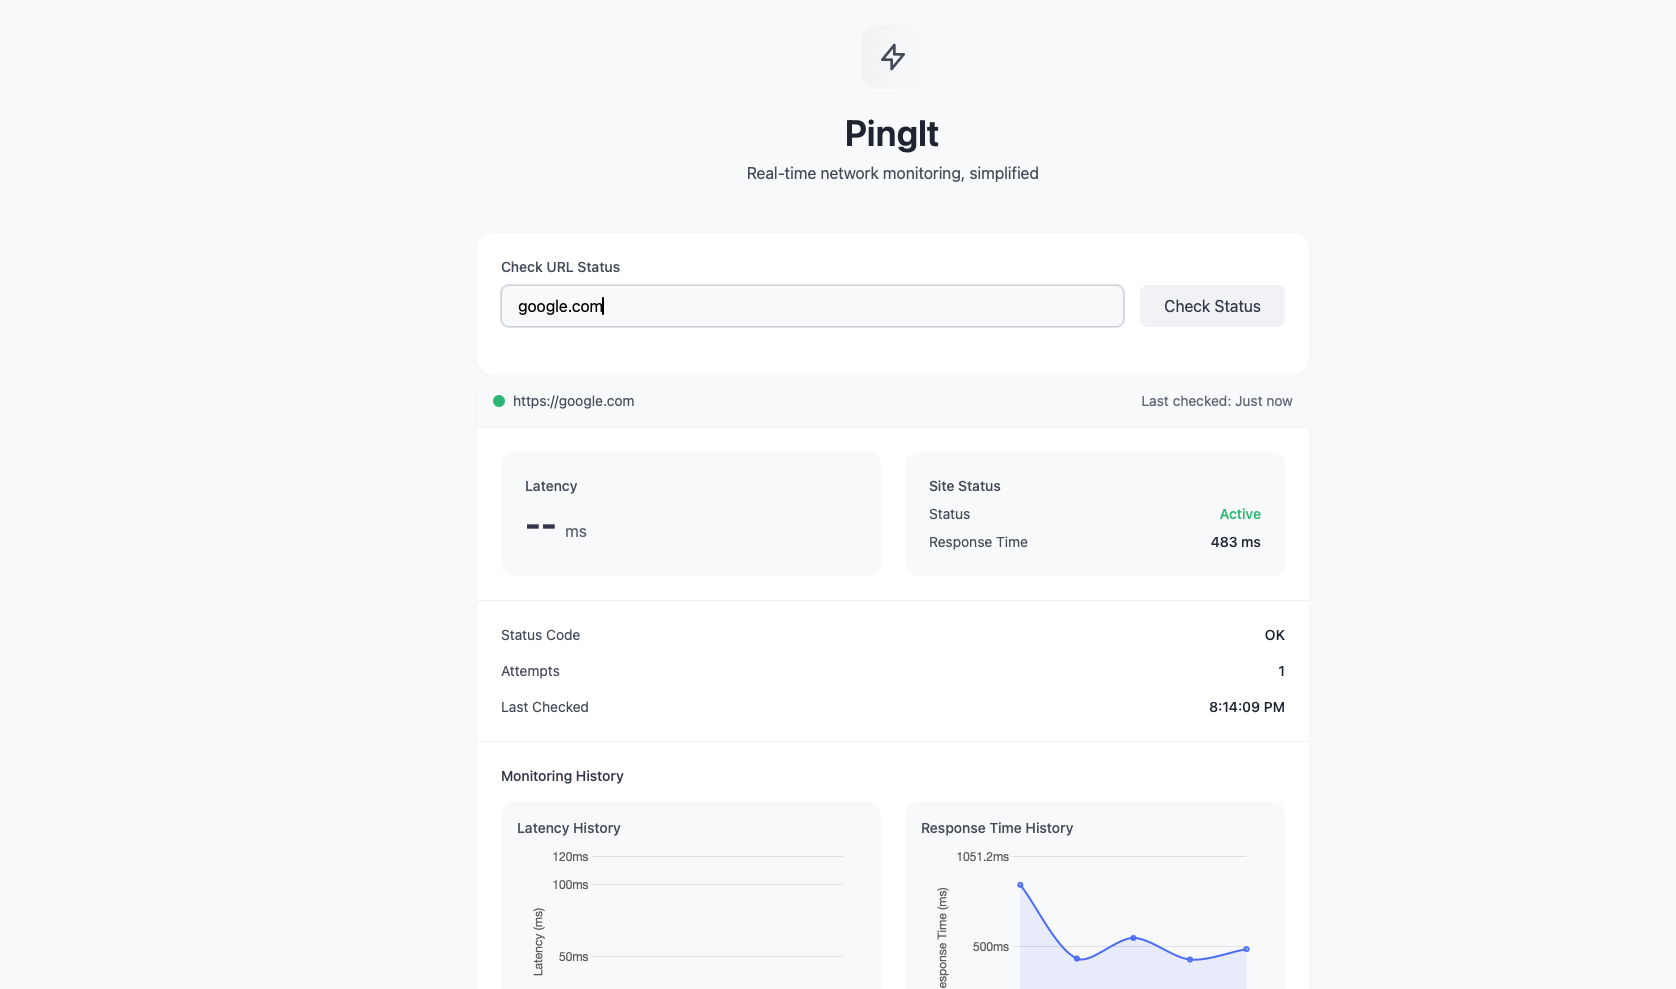
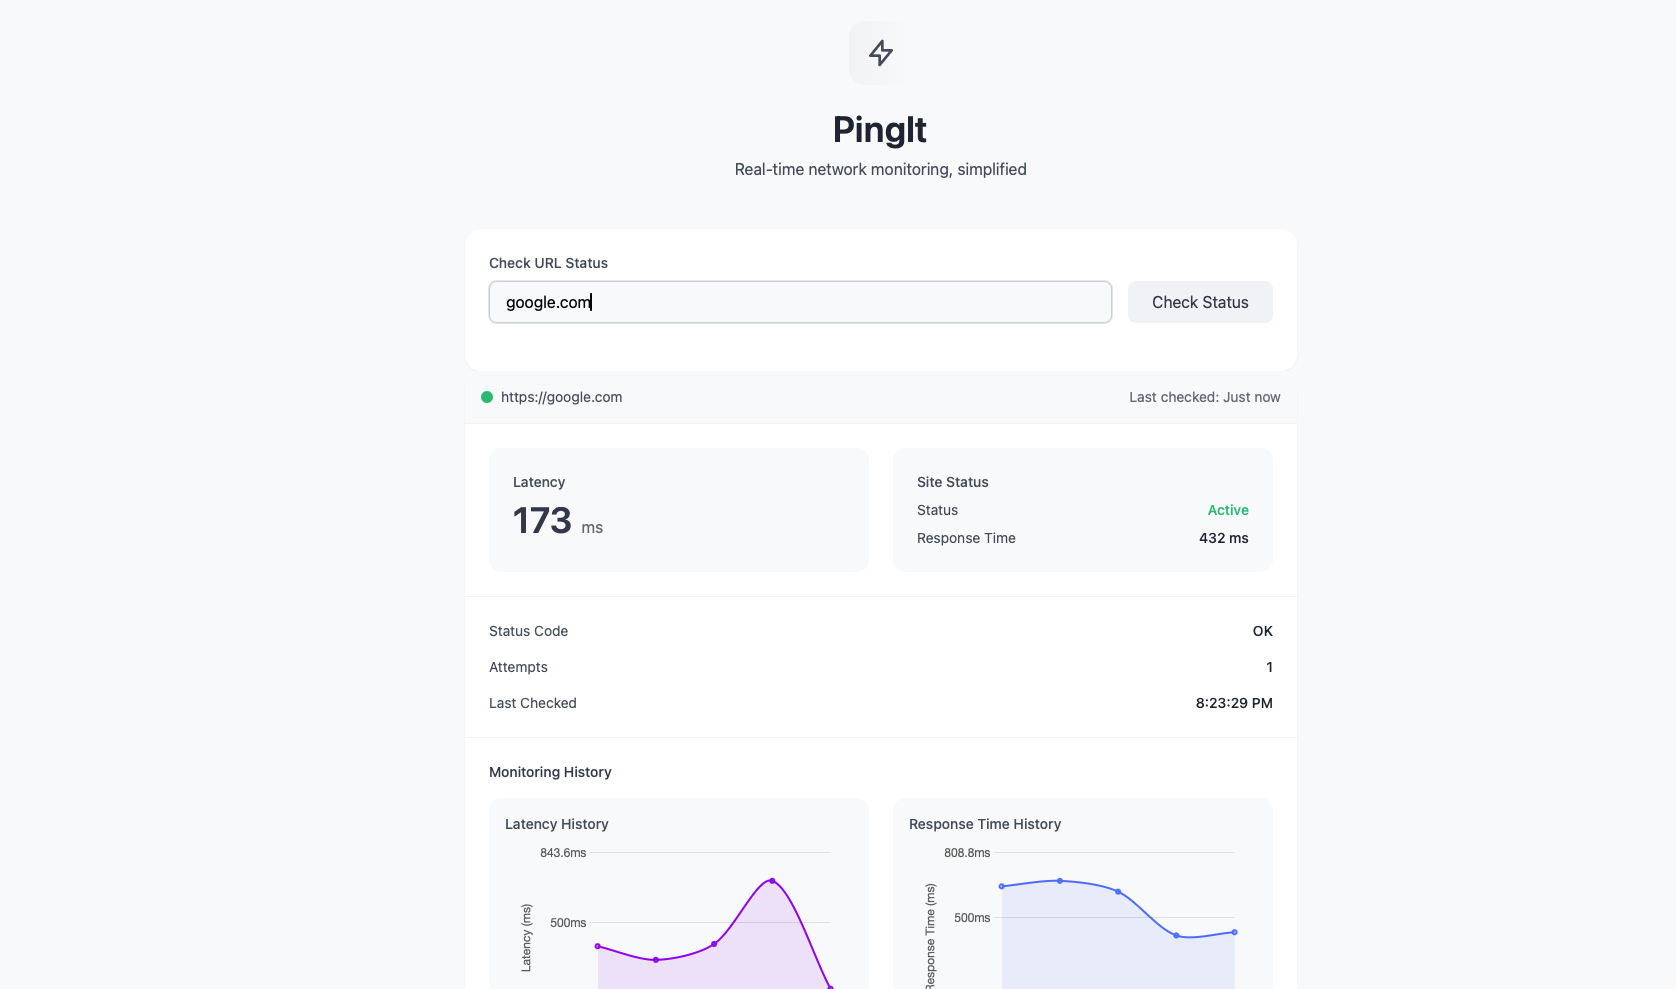
first initial

diff --git a/index.html b/index.html
@@ -14,11 +14,23 @@
     <div class="max-w-4xl mx-auto p-8">
       <!-- Header -->
       <div class="text-center mb-12">
-        <div class="bg-gradient-to-r from-gray-100 to-gray-50 w-16 h-16 rounded-2xl mx-auto mb-6 flex items-center justify-center">
-            <svg class="w-8 h-8 text-gray-600" fill="none" stroke="currentColor" viewBox="0 0 24 24">
-              <path stroke-linecap="round" stroke-linejoin="round" stroke-width="2" d="M13 10V3L4 14h7v7l9-11h-7z" />
-            </svg>
-          </div>
+        <div
+          class="bg-gradient-to-r from-gray-100 to-gray-50 w-16 h-16 rounded-2xl mx-auto mb-6 flex items-center justify-center"
+        >
+          <svg
+            class="w-8 h-8 text-gray-600"
+            fill="none"
+            stroke="currentColor"
+            viewBox="0 0 24 24"
+          >
+            <path
+              stroke-linecap="round"
+              stroke-linejoin="round"
+              stroke-width="2"
+              d="M13 10V3L4 14h7v7l9-11h-7z"
+            />
+          </svg>
+        </div>
         <h1 class="text-4xl font-semibold text-gray-800 mb-2">PingIt</h1>
         <p class="text-gray-600">Real-time network monitoring, simplified</p>
       </div>
@@ -27,7 +39,9 @@
       <div class="bg-white rounded-2xl shadow-sm overflow-hidden">
         <div class="p-6">
           <div class="mb-6">
-            <label class="block text-sm font-medium text-gray-600 mb-2">Check URL Status</label>
+            <label class="block text-sm font-medium text-gray-600 mb-2"
+              >Check URL Status</label
+            >
             <div class="flex space-x-4">
               <input
                 type="url"
@@ -35,7 +49,10 @@
                 placeholder="https://example.com"
                 class="flex-1 rounded-lg border border-gray-200 px-4 py-2 focus:ring-1 focus:ring-gray-200 focus:border-gray-300 outline-none bg-gray-50"
               />
-              <button onclick="checkURL()" class="bg-gray-100 text-gray-700 px-6 py-2 rounded-lg hover:bg-gray-200 transition-colors">
+              <button
+                onclick="checkURL()"
+                class="bg-gray-100 text-gray-700 px-6 py-2 rounded-lg hover:bg-gray-200 transition-colors"
+              >
                 Check Status
               </button>
             </div>
@@ -44,8 +61,13 @@
       </div>
 
       <!-- Results Card -->
-      <div id="resultsCard" class="bg-white rounded-2xl shadow-sm overflow-hidden hidden">
-        <div class="bg-gray-50 border-b border-gray-100 p-4 flex justify-between items-center">
+      <div
+        id="resultsCard"
+        class="bg-white rounded-2xl shadow-sm overflow-hidden hidden"
+      >
+        <div
+          class="bg-gray-50 border-b border-gray-100 p-4 flex justify-between items-center"
+        >
           <div class="flex items-center space-x-2">
             <div id="statusDot" class="w-3 h-3 rounded-full bg-gray-300"></div>
             <span id="checkedUrl" class="text-sm text-gray-600"
@@ -59,23 +81,27 @@
 
         <!-- Metrics -->
         <div class="grid grid-cols-1 md:grid-cols-2 gap-6 p-6">
-            <!-- Latency -->
-            <div class="bg-gray-50 rounded-xl p-6">
-              <h3 class="text-sm font-medium text-gray-600 mb-2">Latency</h3>
-              <div class="flex items-baseline">
-                <span id="latencyValue" class="text-4xl font-semibold text-gray-700">--</span>
-                <span class="ml-2 text-gray-500">ms</span>
-              </div>
-            </div>
-        
-            <!-- Status -->
-            <div class="bg-gray-50 rounded-xl p-6">
-              <h3 class="text-sm font-medium text-gray-600 mb-2">Site Status</h3>
-              <div id="siteStatusDetails" class="space-y-2">
-                <!-- Status details updated via JavaScript -->
-              </div>
+          <!-- Latency -->
+          <div class="bg-gray-50 rounded-xl p-6">
+            <h3 class="text-sm font-medium text-gray-600 mb-2">Latency</h3>
+            <div class="flex items-baseline">
+              <span
+                id="latencyValue"
+                class="text-4xl font-semibold text-gray-700"
+                >--</span
+              >
+              <span class="ml-2 text-gray-500">ms</span>
             </div>
           </div>
+
+          <!-- Status -->
+          <div class="bg-gray-50 rounded-xl p-6">
+            <h3 class="text-sm font-medium text-gray-600 mb-2">Site Status</h3>
+            <div id="siteStatusDetails" class="space-y-2">
+              <!-- Status details updated via JavaScript -->
+            </div>
+          </div>
+        </div>
 
         <!-- Additional Details -->
         <div class="border-t border-gray-100 p-6">
@@ -93,28 +119,58 @@
           <!-- History Charts -->
           <div class="grid grid-cols-1 md:grid-cols-2 gap-6 mb-6">
             <div class="bg-gray-50 rounded-xl p-4 h-[300px]">
-              <h4 class="text-sm font-medium text-gray-600 mb-2">Latency History</h4>
+              <h4 class="text-sm font-medium text-gray-600 mb-2">
+                Latency History
+              </h4>
               <canvas id="latencyChart"></canvas>
             </div>
             <div class="bg-gray-50 rounded-xl p-4 h-[300px]">
-              <h4 class="text-sm font-medium text-gray-600 mb-2">Response Time History</h4>
+              <h4 class="text-sm font-medium text-gray-600 mb-2">
+                Response Time History
+              </h4>
               <canvas id="responseChart"></canvas>
             </div>
           </div>
 
           <!-- History Table -->
           <div class="mt-6">
-            <h4 class="text-sm font-medium text-gray-600 mb-3">Recent Checks</h4>
+            <h4 class="text-sm font-medium text-gray-600 mb-3">
+              Recent Checks
+            </h4>
             <div class="overflow-x-auto">
               <table class="min-w-full">
                 <thead>
                   <tr class="bg-gray-50">
-                    <th class="px-4 py-2 text-left text-xs font-medium text-gray-500">Time</th>
-                    <th class="px-4 py-2 text-left text-xs font-medium text-gray-500">Status</th>
-                    <th class="px-4 py-2 text-left text-xs font-medium text-gray-500">Latency</th>
-                    <th class="px-4 py-2 text-left text-xs font-medium text-gray-500">Response Time</th>
-                    <th class="px-4 py-2 text-left text-xs font-medium text-gray-500">Code</th>
-                    <th class="px-4 py-2 text-left text-xs font-medium text-gray-500">Error</th>
+                    <th
+                      class="px-4 py-2 text-left text-xs font-medium text-gray-500"
+                    >
+                      Time
+                    </th>
+                    <th
+                      class="px-4 py-2 text-left text-xs font-medium text-gray-500"
+                    >
+                      Status
+                    </th>
+                    <th
+                      class="px-4 py-2 text-left text-xs font-medium text-gray-500"
+                    >
+                      Latency
+                    </th>
+                    <th
+                      class="px-4 py-2 text-left text-xs font-medium text-gray-500"
+                    >
+                      Response Time
+                    </th>
+                    <th
+                      class="px-4 py-2 text-left text-xs font-medium text-gray-500"
+                    >
+                      Code
+                    </th>
+                    <th
+                      class="px-4 py-2 text-left text-xs font-medium text-gray-500"
+                    >
+                      Error
+                    </th>
                   </tr>
                 </thead>
                 <tbody id="historyTableBody">
@@ -589,41 +645,70 @@
           return new Promise((resolve) => setTimeout(resolve, ms));
         }
 
+        // async measureLatency() {
+        //   if (!this.isOnline) return null;
+
+        //   this.lastPingTime = Date.now();
+
+        //   try {
+        //     const controller = new AbortController();
+        //     const timeoutId = setTimeout(
+        //       () => controller.abort(),
+        //       this.options.timeout
+        //     );
+
+        //     const startTime = performance.now();
+        //     const response = await fetch(
+        //       this.options.pingURL + "?nocache=" + Date.now(),
+        //       {
+        //         mode: "no-cors",
+        //         signal: controller.signal,
+        //         method: "HEAD", // Using HEAD request for faster response
+        //       }
+        //     );
+        //     clearTimeout(timeoutId);
+
+        //     const endTime = performance.now();
+        //     this.latency = Math.round(endTime - startTime);
+
+        //     return this.latency;
+        //   } catch (error) {
+        //     if (error.name === "AbortError") {
+        //       this.latency = null;
+        //       return null;
+        //     }
+        //     console.warn("Latency check failed:", error);
+        //     return null;
+        //   }
+        // }
+
         async measureLatency() {
           if (!this.isOnline) return null;
 
           this.lastPingTime = Date.now();
 
-          try {
-            const controller = new AbortController();
-            const timeoutId = setTimeout(
-              () => controller.abort(),
-              this.options.timeout
-            );
+          return new Promise((resolve) => {
+            const start = performance.now();
+            const img = new Image();
+            const timeout = setTimeout(() => {
+              img.src = "";
+              resolve(null);
+            }, this.options.timeout);
 
-            const startTime = performance.now();
-            const response = await fetch(
-              this.options.pingURL + "?nocache=" + Date.now(),
-              {
-                mode: "no-cors",
-                signal: controller.signal,
-                method: "HEAD", // Using HEAD request for faster response
-              }
-            );
-            clearTimeout(timeoutId);
+            img.onload = () => {
+              clearTimeout(timeout);
+              this.latency = Math.round(performance.now() - start);
+              resolve(this.latency);
+            };
 
-            const endTime = performance.now();
-            this.latency = Math.round(endTime - startTime);
-
-            return this.latency;
-          } catch (error) {
-            if (error.name === "AbortError") {
+            img.onerror = () => {
+              clearTimeout(timeout);
               this.latency = null;
-              return null;
-            }
-            console.warn("Latency check failed:", error);
-            return null;
-          }
+              resolve(null);
+            };
+
+            img.src = "https://www.google.com/favicon.ico?" + Date.now();
+          });
         }
 
         async checkSiteHealth(attemptNumber = 1) {
@@ -687,31 +772,31 @@
           }
           return `Connection error: ${error.message}`;
         }
-        measureLatency() {
-          if (!this.isOnline) return null;
+        // measureLatency() {
+        //   if (!this.isOnline) return null;
 
-          return new Promise((resolve) => {
-            const start = performance.now();
-            const img = new Image();
-            const timeout = setTimeout(() => {
-              img.src = "";
-              resolve(null);
-            }, this.options.timeout);
+        //   return new Promise((resolve) => {
+        //     const start = performance.now();
+        //     const img = new Image();
+        //     const timeout = setTimeout(() => {
+        //       img.src = "";
+        //       resolve(null);
+        //     }, this.options.timeout);
 
-            img.onload = () => {
-              clearTimeout(timeout);
-              const latency = Math.round(performance.now() - start);
-              resolve(latency);
-            };
+        //     img.onload = () => {
+        //       clearTimeout(timeout);
+        //       const latency = Math.round(performance.now() - start);
+        //       resolve(latency);
+        //     };
 
-            img.onerror = () => {
-              clearTimeout(timeout);
-              resolve(null);
-            };
+        //     img.onerror = () => {
+        //       clearTimeout(timeout);
+        //       resolve(null);
+        //     };
 
-            img.src = "https://www.google.com/favicon.ico?" + Date.now();
-          });
-        }
+        //     img.src = "https://www.google.com/favicon.ico?" + Date.now();
+        //   });
+        // }
         getStatusCodeMessage(status) {
           const statusMessages = {
             400: "Bad Request",
